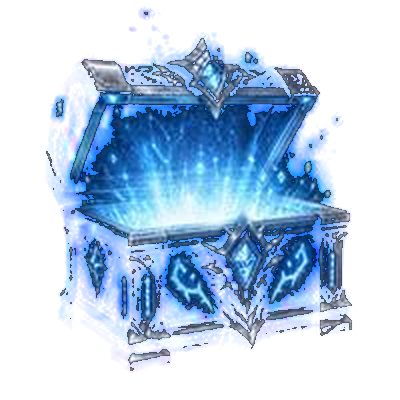
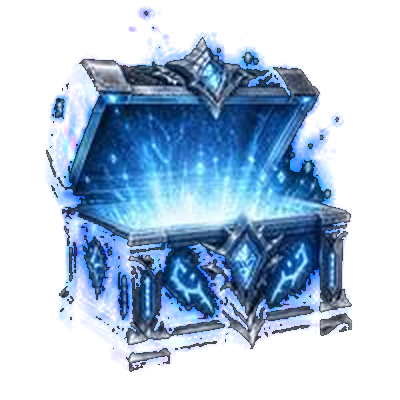
fix(frontend): chest art keeps its dark interior opaque (only the outer background is transparent); larger tiles

diff --git a/frontend/src/pages/TodayPage.tsx b/frontend/src/pages/TodayPage.tsx
@@ -60,7 +60,7 @@ export function TodayPage({ dashboard, selectedDate, today, busyId, onSelectDate
         <ul>{rewards.map(r => {
           const ready = r.state === 'EARNED' && !isOpened(opened, selectedDate, r.tier);
           const label = `${tierName(r.tier)}: ${r.state === 'LOCKED' ? `mở khi xong ${r.threshold} nhiệm vụ` : ready ? 'chạm để mở' : 'đã mở'}, +${r.xp} XP`;
-          const body = <><span className="chest-pic"><ChestArt tier={r.tier} open={r.state === 'EARNED' && !ready} size={64}/>{r.state === 'LOCKED' && <Lock className="chest-lock" size={16} aria-hidden="true"/>}</span><strong>{tierName(r.tier)}</strong><small>{r.state === 'LOCKED' ? `${r.threshold} nhiệm vụ · +${r.xp} XP` : ready ? 'Chạm để mở!' : `+${r.xp} XP`}</small></>;
+          const body = <><span className="chest-pic"><ChestArt tier={r.tier} open={r.state === 'EARNED' && !ready} size={78}/>{r.state === 'LOCKED' && <Lock className="chest-lock" size={16} aria-hidden="true"/>}</span><strong>{tierName(r.tier)}</strong><small>{r.state === 'LOCKED' ? `${r.threshold} nhiệm vụ · +${r.xp} XP` : ready ? 'Chạm để mở!' : `+${r.xp} XP`}</small></>;
           return <li key={r.tier}>{r.state === 'EARNED'
             ? <button className={`chest chest-${r.tier.toLowerCase()} is-open ${ready ? 'is-ready' : ''}`} aria-label={label} onClick={() => setOpening(r)}>{body}</button>
             : <div className={`chest chest-${r.tier.toLowerCase()}`} aria-label={label} role="group">{body}</div>}</li>;

diff --git a/frontend/src/styles.css b/frontend/src/styles.css
@@ -236,9 +236,9 @@ button.chest{font:inherit;cursor:pointer;width:100%}button.chest:hover{filter:br
 @media(prefers-reduced-motion:reduce){.chest-item{animation:none}}
 /* chest art (tiles + opening dialog) */
 .chest-art{display:block;object-fit:contain;pointer-events:none}
-.chest-pic{position:relative;display:grid;place-items:center;width:64px;height:64px}
+.chest-pic{position:relative;display:grid;place-items:center;width:78px;height:78px}
 .chest.is-ready .chest-art{animation:chest-bob 1.1s ease-in-out infinite;filter:drop-shadow(0 0 10px currentColor)}
-.chest:not(.is-open) .chest-art{filter:grayscale(1) brightness(.5)}
+.chest:not(.is-open) .chest-art{filter:grayscale(.8) brightness(.75)}
 .chest-lock{position:absolute;right:-2px;bottom:-2px;padding:3px;border-radius:50%;background:#0b1018;color:#9aa7b8;width:22px;height:22px}
 @keyframes chest-bob{0%,100%{transform:translateY(0) scale(1)}50%{transform:translateY(-4px) scale(1.06)}}
 .chest-box{width:150px;height:150px}
